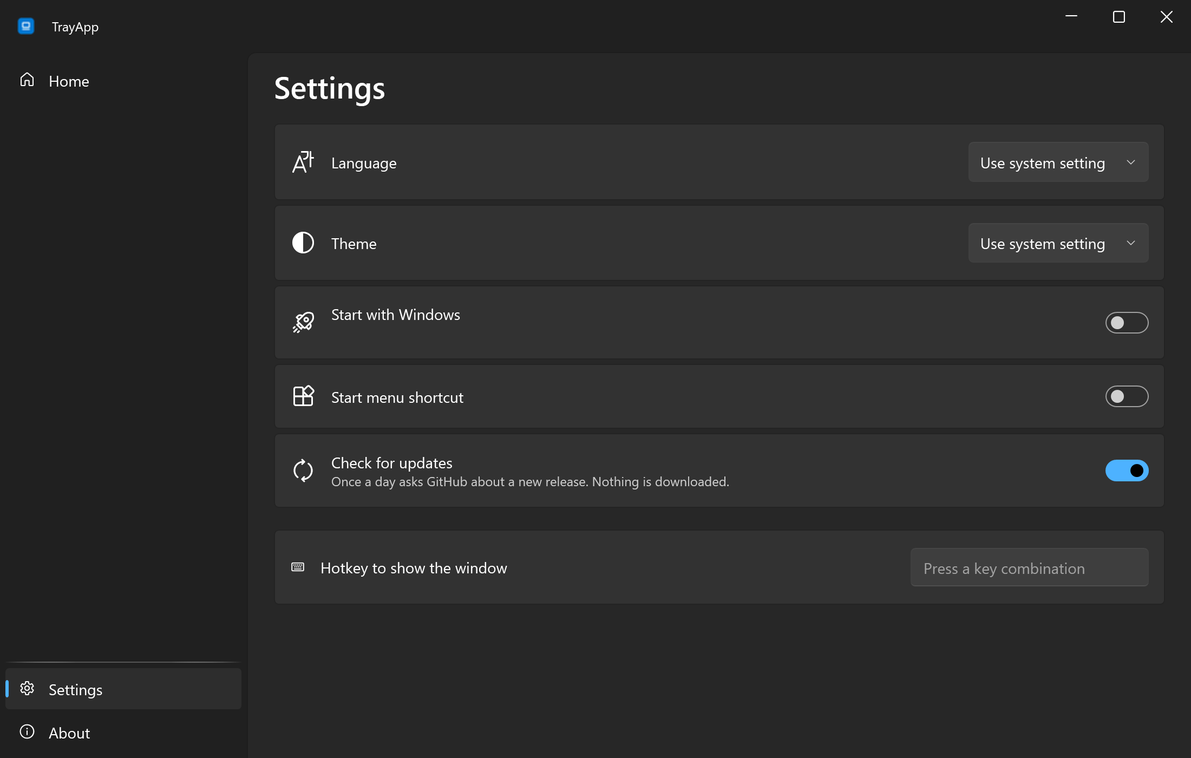
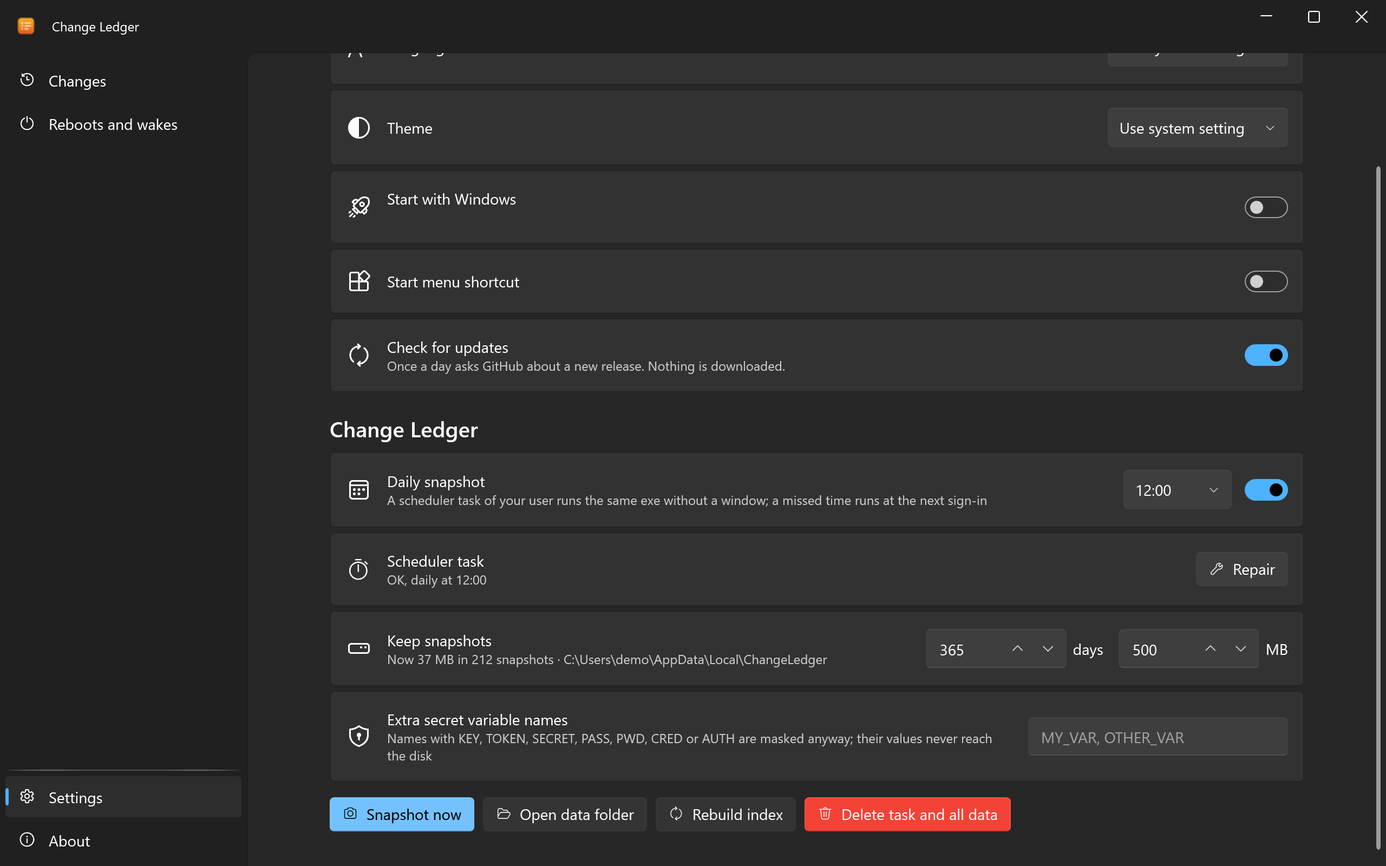
README EN/RU, screenshots, GIFs, social preview; readable text in the dark theme
- Pages and the settings section take TextFillColorPrimaryBrush: plain ui:TextBlock rows
  inherited the page's black foreground and were barely readable in the dark theme
- docs: Changes (before/after an update, apps and startup, PATH), Reboots and wakes,
  Settings in EN/RU x light/dark at 1280x800; window GIFs EN/RU; social preview
- README.md and README.ru.md per 00-shared section 6
- tools/social.ps1 takes -Shot

diff --git a/src/ChangeLedger/Features/Ui/SettingsSection.xaml b/src/ChangeLedger/Features/Ui/SettingsSection.xaml
@@ -2,7 +2,8 @@
              xmlns="http://schemas.microsoft.com/winfx/2006/xaml/presentation"
              xmlns:x="http://schemas.microsoft.com/winfx/2006/xaml"
              xmlns:ui="http://schemas.lepo.co/wpfui/2022/xaml"
-             xmlns:l="clr-namespace:ChangeLedger.Shell">
+             xmlns:l="clr-namespace:ChangeLedger.Shell"
+             Foreground="{DynamicResource TextFillColorPrimaryBrush}">
     <StackPanel>
         <ui:TextBlock FontTypography="Subtitle" Text="{l:T Set.Title}" Margin="0,0,0,8" />
 

diff --git a/src/ChangeLedger/Features/Ui/PowerPage.xaml b/src/ChangeLedger/Features/Ui/PowerPage.xaml
@@ -3,7 +3,8 @@
       xmlns:x="http://schemas.microsoft.com/winfx/2006/xaml"
       xmlns:ui="http://schemas.lepo.co/wpfui/2022/xaml"
       xmlns:l="clr-namespace:ChangeLedger.Shell"
-      xmlns:f="clr-namespace:ChangeLedger.Features">
+      xmlns:f="clr-namespace:ChangeLedger.Features"
+      Foreground="{DynamicResource TextFillColorPrimaryBrush}">
     <Grid Margin="20,0,20,16">
         <Grid.RowDefinitions>
             <RowDefinition Height="Auto" />

diff --git a/src/ChangeLedger/Features/Ui/ChangesPage.xaml b/src/ChangeLedger/Features/Ui/ChangesPage.xaml
@@ -3,7 +3,8 @@
       xmlns:x="http://schemas.microsoft.com/winfx/2006/xaml"
       xmlns:ui="http://schemas.lepo.co/wpfui/2022/xaml"
       xmlns:l="clr-namespace:ChangeLedger.Shell"
-      xmlns:f="clr-namespace:ChangeLedger.Features">
+      xmlns:f="clr-namespace:ChangeLedger.Features"
+      Foreground="{DynamicResource TextFillColorPrimaryBrush}">
     <Page.Resources>
         <BooleanToVisibilityConverter x:Key="Vis" />
     </Page.Resources>

diff --git a/README.ru.md b/README.ru.md
@@ -1,9 +1,9 @@
 <div align="center">
 <img src="docs/icon.png" width="96" alt="">
 
-# ChangeLedger
+# Change Ledger
 
-**Каркас небольших программ в трее Windows: один exe, RU/EN, светлая и тёмная тема, релизы из CI.**
+**Вчера работало, сегодня нет? Посмотри, что именно изменилось в Windows между двумя любыми днями.**
 
 [English](README.md) · **Русский**
 
@@ -14,39 +14,51 @@
 [![License](https://img.shields.io/github/license/lojekq/ChangeLedger)](LICENSE)
 
 <picture>
-  <source media="(prefers-color-scheme: dark)" srcset="docs/main-dark-ru.png">
-  <img src="docs/main-light-ru.png" width="820" alt="Главное окно ChangeLedger">
+  <source media="(prefers-color-scheme: dark)" srcset="docs/changes-dark-ru.png">
+  <img src="docs/changes-light-ru.png" width="820" alt="Change Ledger: до и после обновления Windows, драйвер NVIDIA и новая служба">
 </picture>
 </div>
 
-
 ## Зачем
 
-Каждой маленькой утилите для Windows нужны одни и те же скучные части: значок в трее, настройки, автозапуск, два языка, лог падений и релиз с контрольными суммами.
-В ChangeLedger они сделаны один раз, и программа добавляет только свои страницы.
+Игра начала падать, ПК просыпается ночью, инструмент перестал находить Python. Что-то изменилось, но что и когда?
+Change Ledger раз в день делает небольшой снимок того, что обычно ломает Windows, только чтением, и показывает разницу между двумя любыми датами.
+Вторая страница объясняет каждую перезагрузку и пробуждение по журналам Windows: кто, когда и почему.
 
 ## Возможности
 
-- **Живёт в трее** — левый клик открывает окно, крестик прячет его, «Выход» в меню трея.
-- **Один exe** — без установщика и прав администратора; ярлык в «Пуске» и автозапуск включаются в настройках.
-- **Русский и английский, светлая и тёмная тема** — как в Windows или по вашему выбору.
-- **Честные обновления** — раз в день спрашивает у GitHub о новом релизе, показывает заметку и ничего не скачивает.
-- **Лог падений** — при ошибке программа останавливается и показывает, где лог; ничего никуда не отправляется.
+- **Ежедневные снимки** — программы, драйверы, службы, задачи планировщика, автозагрузка, переменные среды с PATH, устройства пробуждения; без прав администратора, всё остаётся на ПК.
+- **Два любых дня** — таймлайн и дифф по категориям, «было → стало» для каждого свойства.
+- **До и после обновления Windows** — в один клик.
+- **Почему перезагрузился или проснулся** — плановая перезагрузка, BSOD, потеря питания, удержание кнопки; таймер задачи или устройство, с подсказкой, что отключить.
+- **Приватно и только чтение** — секреты маскируются, сеть не нужна, в Windows ничего не меняется.
+- **Копировать для ИИ** — дифф в Markdown для Claude или локальной модели.
 
 ## Как это выглядит
 
-![Демо ChangeLedger](docs/demo-ru.gif)
+![Change Ledger в работе](docs/demo-ru.gif)
+
+## Как это работает
+
+Задача планировщика вашего пользователя раз в день запускает тот же exe без окна (`ChangeLedger.exe --snapshot`).
+Он читает реестр и планировщик, хранит результат как сжатый JSON и пишет новый файл, только если что-то изменилось.
+Перезагрузки и пробуждения берутся прямо из журнала System, снимки для них не нужны.
+
+Почему не «Монитор стабильности» и не Autoruns? Монитор стабильности не видит драйверы, службы и PATH.
+Autoruns показывает, что запускается сейчас, но не то, что было вчера.
 
 ## Скриншоты
 
 | | Светлая | Тёмная |
 |---|---|---|
+| Программы и автозагрузка | ![Программы, светлая](docs/changes-apps-light-ru.png) | ![Программы, тёмная](docs/changes-apps-dark-ru.png) |
+| PATH и переменные | ![PATH, светлая](docs/changes-path-light-ru.png) | ![PATH, тёмная](docs/changes-path-dark-ru.png) |
+| Перезагрузки и пробуждения | ![Перезагрузки, светлая](docs/power-light-ru.png) | ![Перезагрузки, тёмная](docs/power-dark-ru.png) |
 | Настройки | ![Настройки, светлая](docs/settings-light-ru.png) | ![Настройки, тёмная](docs/settings-dark-ru.png) |
-| О программе | ![О программе, светлая](docs/about-light-ru.png) | ![О программе, тёмная](docs/about-dark-ru.png) |
 
 ## Скачать
 
-1. Скачайте **`ChangeLedger-x.y.z-win-x64.exe`** из [Releases](https://github.com/lojekq/ChangeLedger/releases/latest). Один файл, без установки и прав администратора.
+1. Скачайте **`ChangeLedger-x.y.z-win-x64.exe`** из [Releases](https://github.com/lojekq/ChangeLedger/releases/latest). Один файл, без установки и без прав администратора.
 2. Сборка поменьше: `ChangeLedger-x.y.z-win-x64-fd.zip` (нужен [.NET Desktop Runtime 10](https://dotnet.microsoft.com/download/dotnet/10.0)).
 3. Проверка по желанию: `gh attestation verify <файл> -R lojekq/ChangeLedger` или сверка с `SHA256SUMS.txt`.
 
@@ -54,45 +66,64 @@
 
 ## Первый запуск
 
-Сначала положите exe в постоянную папку, например `%LOCALAPPDATA%\Programs\ChangeLedger\`: автозапуск и ярлык указывают на него.
-При первом запуске Windows может показать предупреждение SmartScreen (см. «Вопросы»). Дальше программа живёт в трее; в настройках включите **«Запускать вместе с Windows»**.
+Сначала положите exe в `%LOCALAPPDATA%\Programs\ChangeLedger\`: оттуда он сам создаёт ежедневную задачу и чинит путь, если exe перенесли.
+Копия в другой папке («Загрузки», папка сборки) создаёт задачу только по кнопке **Починить** в настройках.
+При первом запуске Windows может показать предупреждение SmartScreen (см. «Вопросы»). Первый снимок будет через 2 минуты после запуска, сравнивать будет с чем со следующего дня.
+Включите в настройках **Запускать вместе с Windows**: тогда снимок будет и после каждой перезагрузки, и «после обновления» появится сразу.
 
 ## Настройки
 
 | Настройка | По умолчанию | Что делает |
 |---|---|---|
-| Язык | язык Windows | русский или английский, после перезапуска |
-| Тема | тема Windows | светлая или тёмная |
-| Запускать вместе с Windows | выкл. | стартует свёрнутой в трей |
-| Ярлык в меню «Пуск» | вкл., если exe лежит в `%LOCALAPPDATA%\Programs\ChangeLedger\` | ярлык в «Пуске» |
-| Проверять обновления | вкл. | раз в день спрашивает у GitHub о новом релизе |
+| Ежедневный снимок | вкл., 12:00 | Задача делает снимок каждый день; если ПК был выключен, снимок будет при следующем входе |
+| Хранить снимки | 365 дней, 500 МБ | Старые и лишние снимки удаляются; два самых новых не удаляются никогда |
+| Дополнительные секретные переменные | нет | Ещё переменные среды для маскирования; имена с KEY, TOKEN, SECRET, PASS, PWD, CRED или AUTH маскируются всегда |
+| Язык, тема | как в Windows | Английский или русский (после перезапуска), светлая или тёмная |
+| Запускать вместе с Windows | выкл. | Стартует свёрнутой в трей; через 2 минуты после запуска делает снимок, если прошлый старше часа |
+| Ярлык в меню «Пуск» | вкл., если exe лежит в `%LOCALAPPDATA%\Programs\ChangeLedger\` | Ярлык в меню «Пуск» |
+| Проверять обновления | вкл. | Раз в день спрашивает у GitHub о новом релизе |
 
-Настройки и логи лежат в `%APPDATA%\ChangeLedger`.
+Настройки и логи лежат в `%APPDATA%\ChangeLedger`, снимки в `%LOCALAPPDATA%\ChangeLedger` (около 80 КБ на день с изменениями; дни без изменений места не занимают).
+В настройках также статус задачи с кнопкой **Починить**, **Снимок сейчас**, **Перестроить индекс** и **Удалить задачу и все данные**.
 
 ## Вопросы
 
-<details><summary>«Система Windows защитила ваш компьютер» / предупреждение SmartScreen</summary>
+<details><summary>Система Windows защитила ваш компьютер / SmartScreen</summary>
 
-Exe пока без цифровой подписи, поэтому Windows не знает издателя. Нажмите **«Подробнее» → «Выполнить в любом случае»**.
-Каждый файл собирает GitHub Actions из этого репозитория; проверить его можно через `gh attestation verify` или `SHA256SUMS.txt`.
-Если включён Smart App Control, он блокирует неподписанные файлы без возможности разрешить один; остаётся только выключить его.
+У exe пока нет цифровой подписи, поэтому Windows не знает издателя. Нажмите **Подробнее → Выполнить в любом случае**.
+Каждый файл собран GitHub Actions из этого репозитория; проверить можно через `gh attestation verify` или `SHA256SUMS.txt`.
+Если включён Smart App Control, он блокирует неподписанные файлы без возможности разрешить; единственный вариант — выключить его.
 </details>
 
-<details><summary>Антивирус ругается на программу</summary>
+<details><summary>Антивирус ругается</summary>
 
-Это ложное срабатывание: у программы нет установщика, упаковщика и обфускации. Сообщите об этом производителю антивируса
-и откройте issue с именем детекта и SHA256 файла.
+Это ложное срабатывание. Неподписанный exe, который создаёт задачу планировщика и читает ключи автозагрузки и переменные среды, эвристике кажется вредоносным.
+Задача называется `ChangeLedger Snapshot (<ваш SID>)` и в описании говорит, что делает; у программы нет установщика, упаковщика и обфускации.
+Сообщите о срабатывании производителю антивируса и откройте issue с названием детекта и SHA256 файла.
+</details>
+
+<details><summary>Вижу изменения, которых я не делал</summary>
+
+Windows и программы обновления меняют систему сами: задачи Edge и Office, службы, которые переключают тип запуска.
+Известный шум скрыт; **Показать скрытое** возвращает его. Если что-то постоянно появляется без причины, откройте issue со строкой из **Копировать**.
+</details>
+
+<details><summary>Почему нет снимка, если запустить от администратора?</summary>
+
+Под администратором Windows показывает задачи планировщика, которых обычный пользователь не видит, и снимки перестали бы быть сравнимыми.
+Запускайте Change Ledger обычным способом, права администратора ему не нужны.
 </details>
 
 <details><summary>Как удалить?</summary>
 
-«О программе» → **«Удалить данные и автозапуск»**, затем удалите exe.
+«О программе» → **Удалить данные и автозапуск** (заодно удаляются задача планировщика и все снимки), затем удалите exe.
 </details>
 
 ## Приватность
 
-Телеметрии нет. Единственный сетевой запрос — проверка обновлений: `GET https://api.github.com/repos/lojekq/ChangeLedger/releases/latest` раз в день; выключается в настройках.
-В логах нет заголовков окон, путей и других личных данных.
+Телеметрии нет. Единственный сетевой запрос — проверка обновлений: `GET https://api.github.com/repos/lojekq/ChangeLedger/releases/latest` раз в день, отключается в настройках.
+Снимки не покидают ПК. Значения переменных, похожих на секреты, и аргументы вида `--token=…` заменяются хэшем с солью до записи на диск.
+**Копировать для ИИ** только кладёт этот замаскированный текст в буфер обмена. В логах нет командных строк и значений переменных.
 
 ## Сборка из исходников
 
@@ -103,6 +134,8 @@ cd ChangeLedger
 dotnet run --project src/ChangeLedger
 dotnet test
 ```
+
+`--demo` запускает программу на выдуманных снимках, не читая ваш ПК.
 
 ## Лицензия
 

diff --git a/README.md b/README.md
@@ -1,9 +1,9 @@
 <div align="center">
 <img src="docs/icon.png" width="96" alt="">
 
-# ChangeLedger
+# Change Ledger
 
-**Skeleton for small Windows tray apps: one exe, RU/EN, light and dark, releases from CI.**
+**Worked last week, broken today? See exactly what changed in Windows between any two days.**
 
 **English** · [Русский](README.ru.md)
 
@@ -14,35 +14,47 @@
 [![License](https://img.shields.io/github/license/lojekq/ChangeLedger)](LICENSE)
 
 <picture>
-  <source media="(prefers-color-scheme: dark)" srcset="docs/main-dark-en.png">
-  <img src="docs/main-light-en.png" width="820" alt="ChangeLedger main window">
+  <source media="(prefers-color-scheme: dark)" srcset="docs/changes-dark-en.png">
+  <img src="docs/changes-light-en.png" width="820" alt="Change Ledger: before and after a Windows update, the NVIDIA driver and a new service">
 </picture>
 </div>
 
-
 ## Why
 
-Every small Windows utility needs the same boring parts: a tray icon, settings, autostart, two languages, a crash log and a release with checksums.
-ChangeLedger has them done once, so an app only adds its own pages.
+A game started crashing, the PC wakes up at night, a tool stopped finding Python. Something changed, but what and when?
+Change Ledger takes a small read-only snapshot of what usually breaks Windows once a day and shows the difference between any two dates.
+A second page explains every restart and wake-up from the Windows logs: who, when and why.
 
 ## Features
 
-- **Tray first** — left click opens the window, the cross hides it, Exit is in the tray menu.
-- **One exe** — no installer and no admin rights; a Start menu shortcut and autostart are switches in Settings.
-- **English and Russian, light and dark** — follows Windows or your choice.
-- **Honest updates** — once a day it asks GitHub about a new release, shows a note and downloads nothing.
-- **Crash log** — if it fails, it stops and shows where the log is; nothing is sent anywhere.
+- **Daily snapshots** — apps, drivers, services, scheduled tasks, startup items, environment variables with PATH, wake devices; no admin rights, everything stays on your PC.
+- **Any two days** — a timeline and a diff by category, "was → now" for every property.
+- **Before and after a Windows update** — in one click.
+- **Why it restarted or woke up** — planned restart, BSOD, power loss, a held power button; a task timer or a device, with what to turn off.
+- **Private and read-only** — secrets are masked, no network, nothing in Windows is changed.
+- **Copy for AI** — the diff as Markdown for Claude or a local model.
 
 ## See it in action
 
-![ChangeLedger demo](docs/demo-en.gif)
+![Change Ledger demo](docs/demo-en.gif)
+
+## How it works
+
+A Task Scheduler task of your own user runs the same exe once a day without a window (`ChangeLedger.exe --snapshot`).
+It reads the registry and the Task Scheduler, keeps the result as compressed JSON and writes a new file only if something changed.
+Restarts and wake-ups are read straight from the Windows System log, so they need no snapshots.
+
+Why not Reliability Monitor or Autoruns? Reliability Monitor does not see drivers, services or PATH.
+Autoruns shows what starts now, but not what it was yesterday.
 
 ## Screenshots
 
 | | Light | Dark |
 |---|---|---|
+| Apps and startup | ![Apps and startup, light](docs/changes-apps-light-en.png) | ![Apps and startup, dark](docs/changes-apps-dark-en.png) |
+| PATH and variables | ![PATH, light](docs/changes-path-light-en.png) | ![PATH, dark](docs/changes-path-dark-en.png) |
+| Reboots and wakes | ![Reboots, light](docs/power-light-en.png) | ![Reboots, dark](docs/power-dark-en.png) |
 | Settings | ![Settings, light](docs/settings-light-en.png) | ![Settings, dark](docs/settings-dark-en.png) |
-| About | ![About, light](docs/about-light-en.png) | ![About, dark](docs/about-dark-en.png) |
 
 ## Download
 
@@ -54,20 +66,25 @@ Requirements: Windows 11 x64. Windows 10 22H2 should work but is not tested.
 
 ## First run
 
-Put the exe into a permanent folder first, for example `%LOCALAPPDATA%\Programs\ChangeLedger\`: autostart and the shortcut point to it.
-On the first start Windows may show a SmartScreen warning (see FAQ). The app then lives in the tray; turn on **Start with Windows** in Settings.
+Put the exe into `%LOCALAPPDATA%\Programs\ChangeLedger\` first: from there it creates its daily task by itself and repairs the path if you move it.
+A copy in another folder (Downloads, a build folder) creates the task only when you press **Repair** in Settings.
+On the first start Windows may show a SmartScreen warning (see FAQ). The first snapshot is taken 2 minutes after the start; there is something to compare it with from the next day.
+Turn on **Start with Windows** in Settings: then a snapshot also follows every restart, so you get "after the update" right away.
 
 ## Settings
 
 | Setting | Default | What it does |
 |---|---|---|
-| Language | Windows language | English or Russian, applied after a restart |
-| Theme | Windows theme | Light or dark |
-| Start with Windows | off | Starts minimized to the tray |
+| Daily snapshot | on, 12:00 | The task runs a snapshot every day; if the PC was off, it runs at the next sign-in |
+| Keep snapshots | 365 days, 500 MB | Older and extra snapshots are deleted; the two newest never are |
+| Extra secret variable names | none | More environment variables to mask; names with KEY, TOKEN, SECRET, PASS, PWD, CRED or AUTH are always masked |
+| Language, theme | Windows | English or Russian (after a restart), light or dark |
+| Start with Windows | off | Starts minimized to the tray; 2 minutes after the start it takes a snapshot if the last one is over an hour old |
 | Start menu shortcut | on when the exe is in `%LOCALAPPDATA%\Programs\ChangeLedger\` | A shortcut in the Start menu |
 | Check for updates | on | Once a day asks GitHub about a new release |
 
-Settings and logs live in `%APPDATA%\ChangeLedger`.
+Settings and logs live in `%APPDATA%\ChangeLedger`, snapshots in `%LOCALAPPDATA%\ChangeLedger` (about 80 KB for a day with changes; days without changes take nothing).
+Settings also show the task status with **Repair**, **Snapshot now**, **Rebuild index** and **Delete task and all data**.
 
 ## FAQ
 
@@ -80,19 +97,33 @@ Smart App Control, if it is on, blocks unsigned files with no way to allow one; 
 
 <details><summary>My antivirus flags it</summary>
 
-It is a false positive: the app has no installer, no packer and no obfuscation. Please report it to your antivirus vendor
-and open an issue with the detection name and the SHA256 of the file.
+It is a false positive. An unsigned exe that creates a scheduled task and reads startup keys and environment variables looks like malware to a heuristic.
+The task is called `ChangeLedger Snapshot (<your SID>)` and says what it does; the app has no installer, no packer and no obfuscation.
+Please report it to your antivirus vendor and open an issue with the detection name and the SHA256 of the file.
+</details>
+
+<details><summary>I see changes I did not make</summary>
+
+Windows and updaters change things on their own: Edge and Office tasks, services that switch their start type.
+Known noise is hidden; **Show hidden** brings it back. If something keeps showing up for nothing, open an issue with the line from **Copy**.
+</details>
+
+<details><summary>Why no snapshot when I run it as administrator?</summary>
+
+As administrator Windows shows scheduled tasks that a normal user never sees, so snapshots would stop being comparable.
+Start Change Ledger the usual way; it never needs admin rights.
 </details>
 
 <details><summary>How do I uninstall?</summary>
 
-About → **Remove data and autostart**, then delete the exe.
+About → **Remove data and autostart** (it also deletes the scheduled task and all snapshots), then delete the exe.
 </details>
 
 ## Privacy
 
 No telemetry. The only network request is the update check: `GET https://api.github.com/repos/lojekq/ChangeLedger/releases/latest` once a day; turn it off in Settings.
-Logs contain no window titles, paths or other personal data.
+Snapshots never leave your PC. Values of secret-looking variables and `--token=…` style arguments are replaced with a salted hash before anything reaches the disk.
+**Copy for AI** only puts that masked text on the clipboard. Logs contain no command lines or variable values.
 
 ## Build from source
 
@@ -103,6 +134,8 @@ cd ChangeLedger
 dotnet run --project src/ChangeLedger
 dotnet test
 ```
+
+`--demo` runs the app on made-up snapshots without reading your PC.
 
 ## License
 
